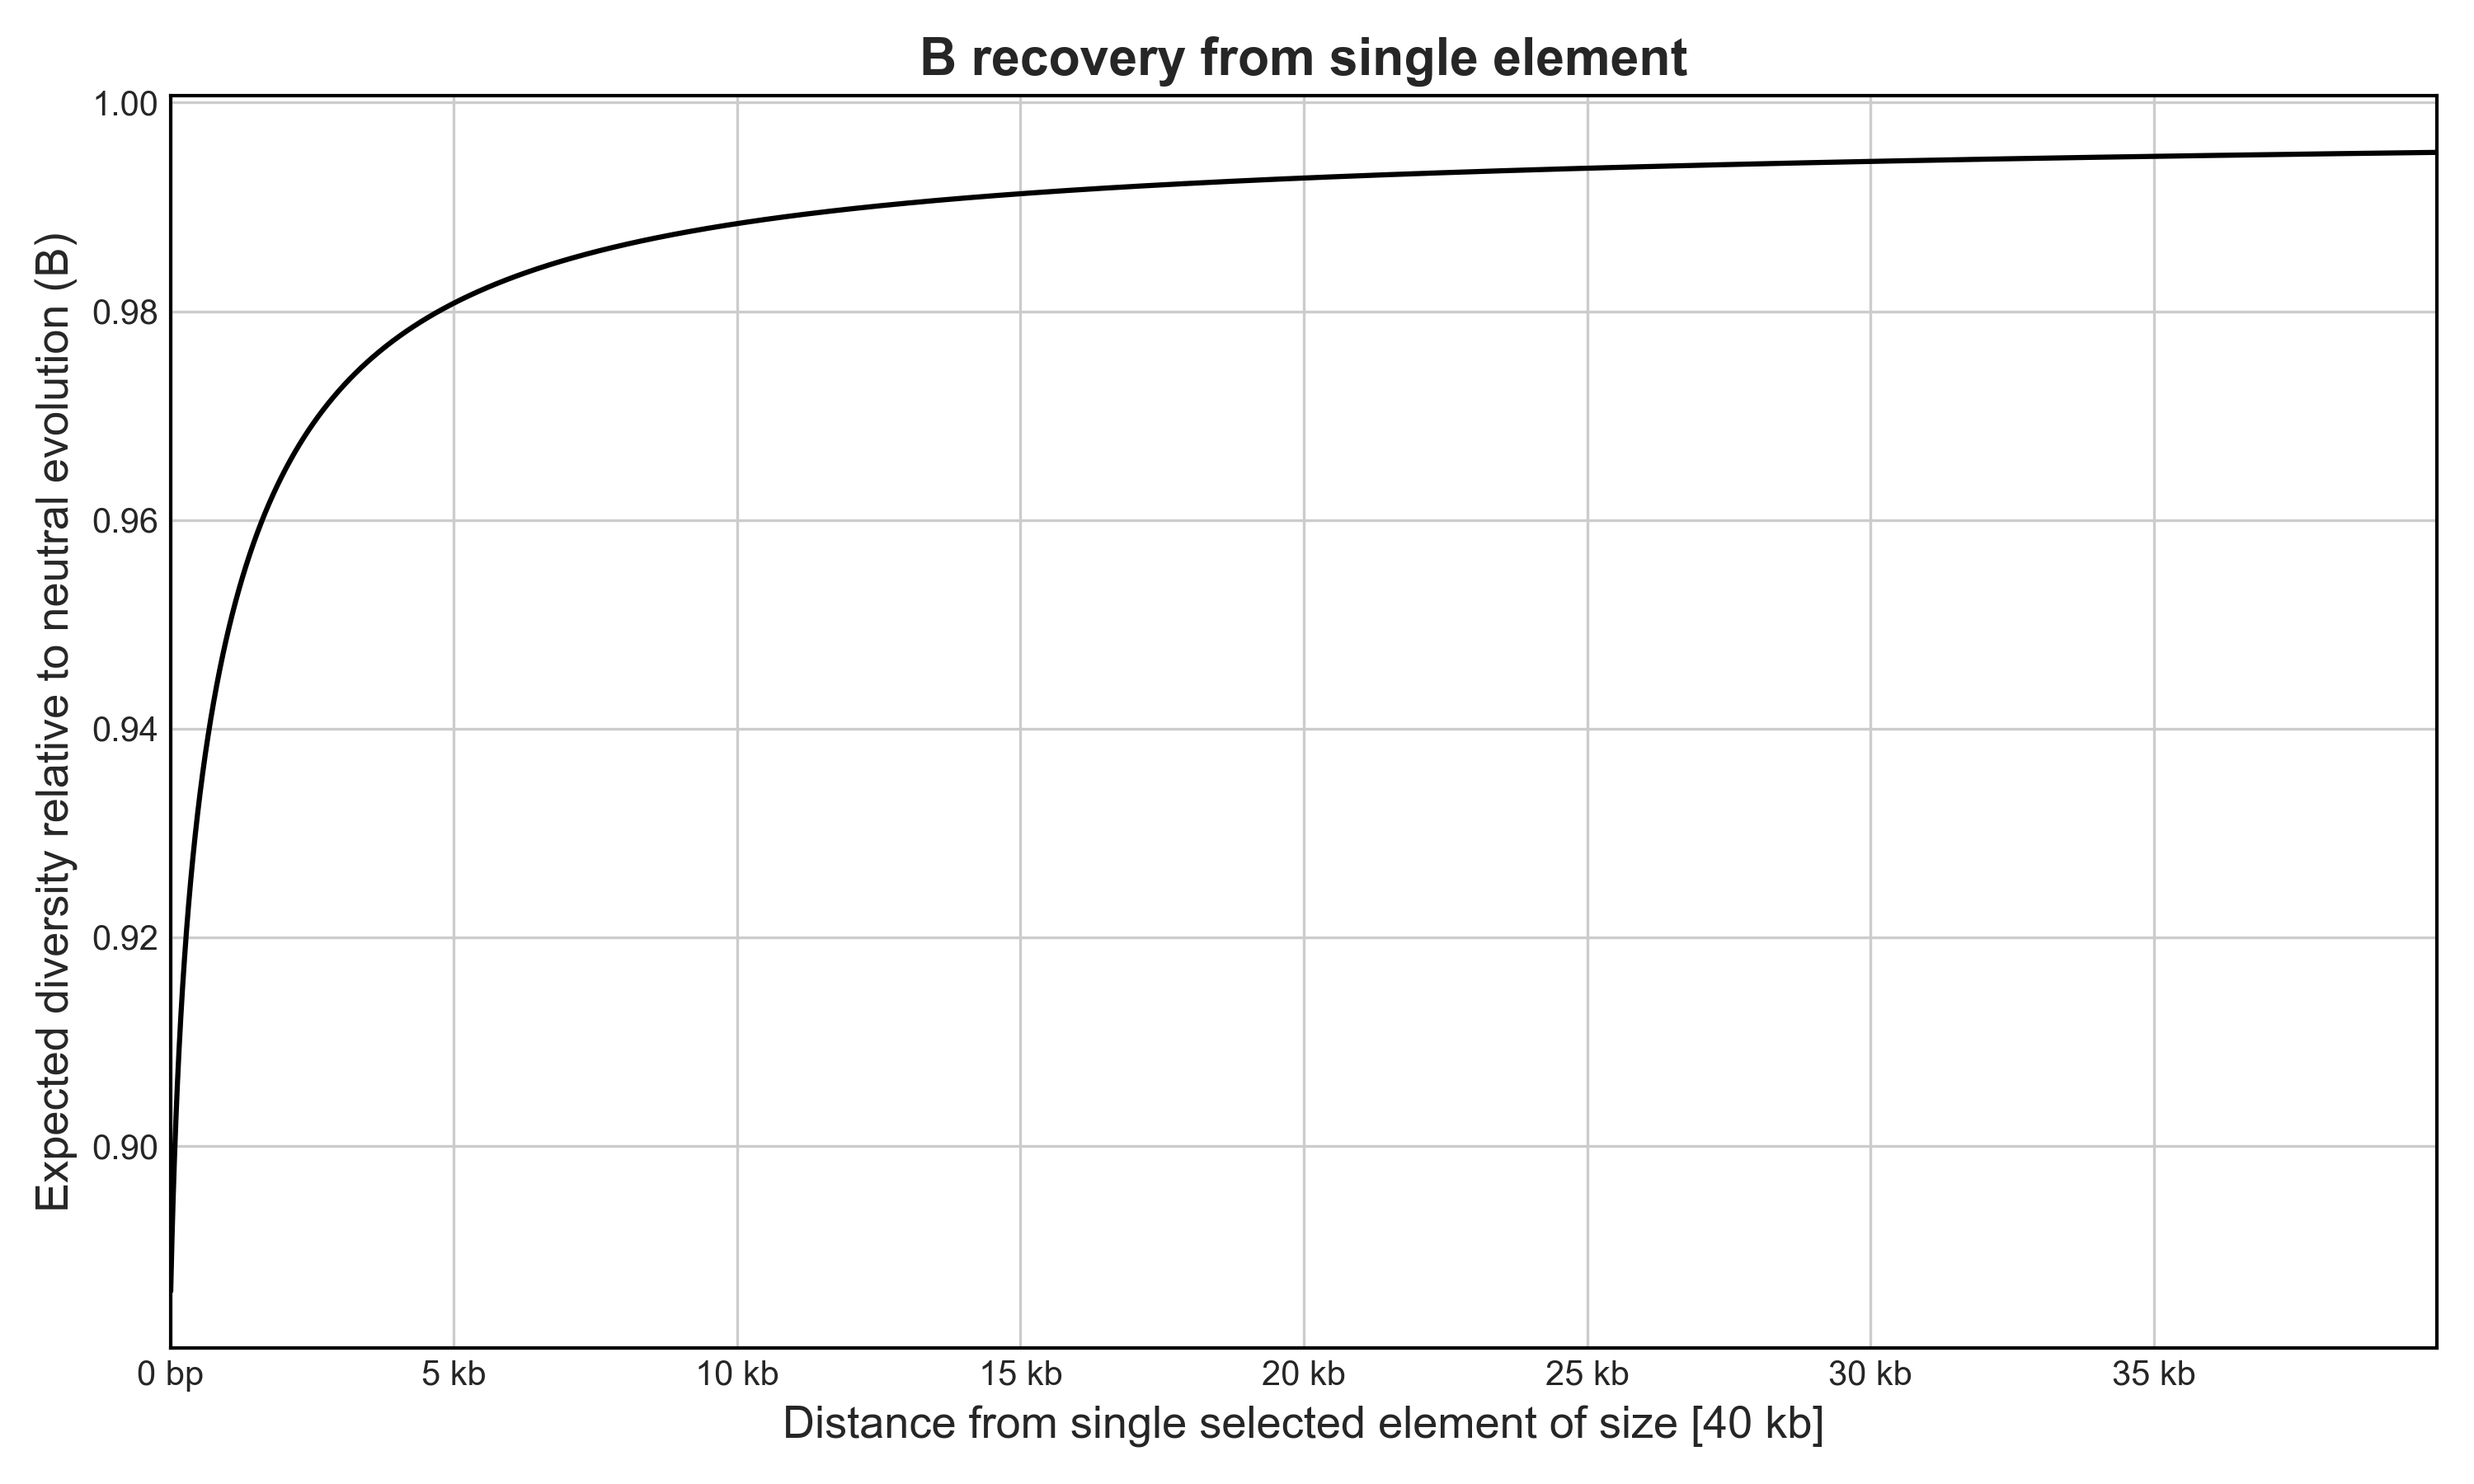
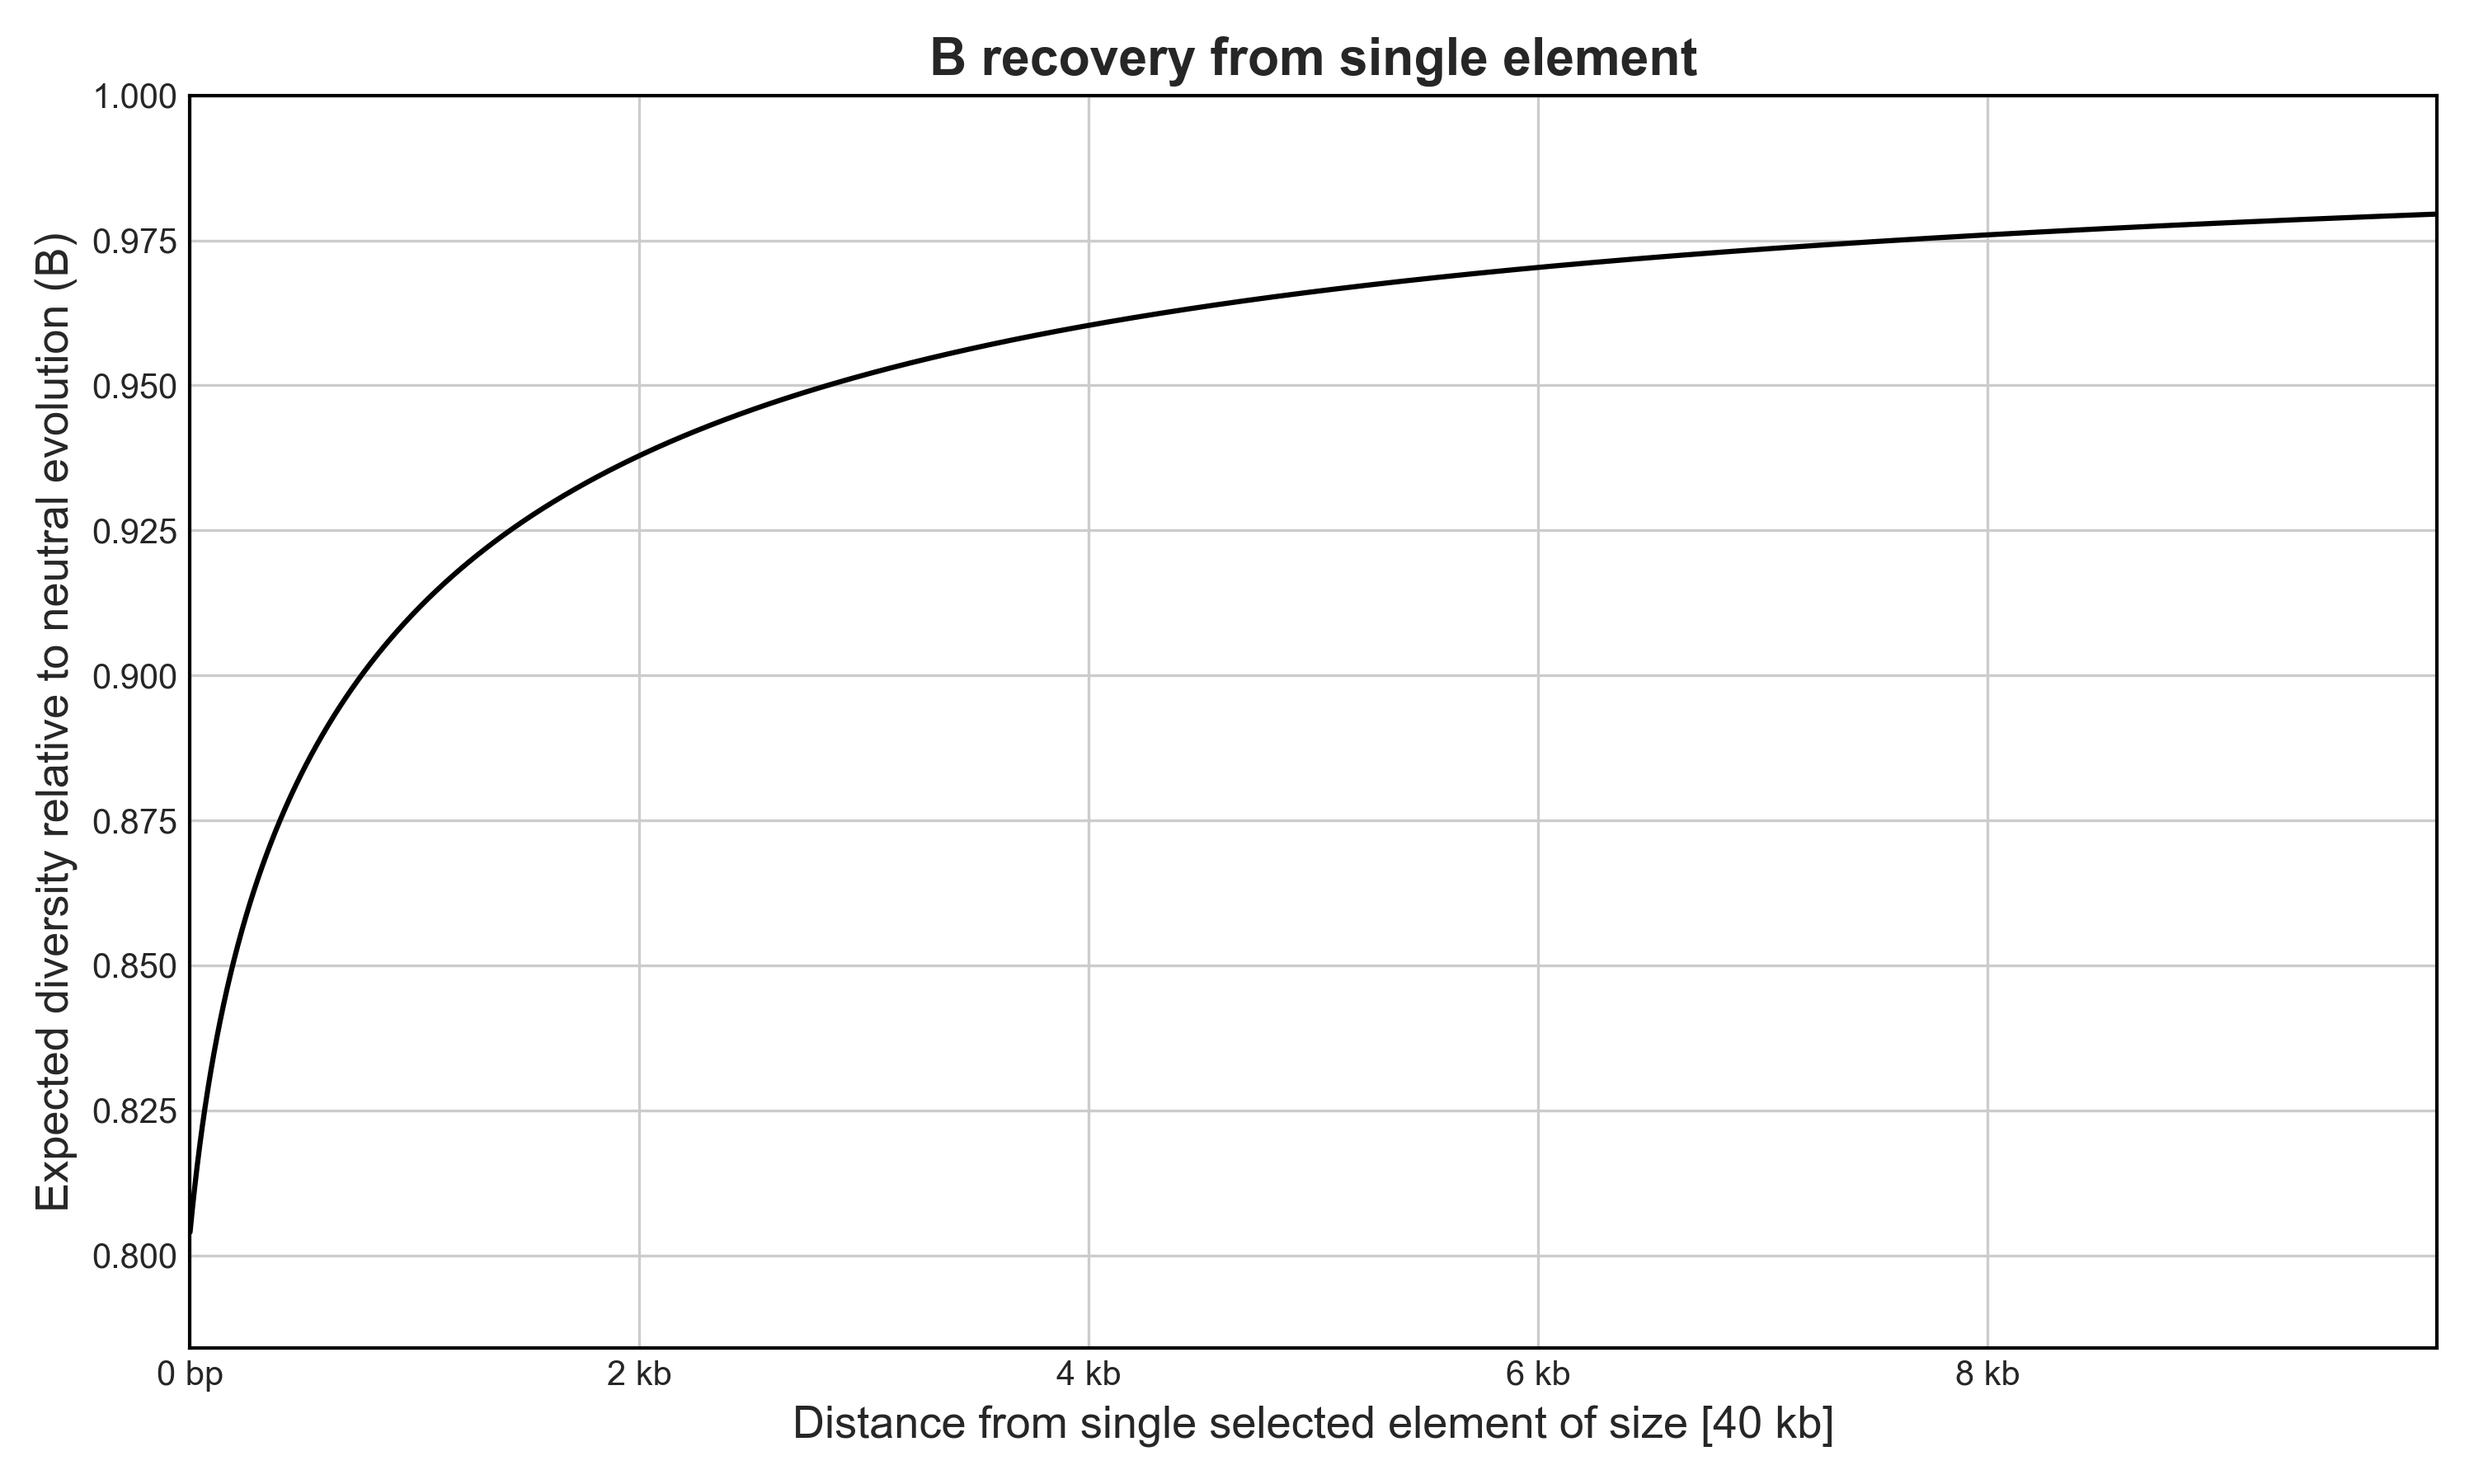
Add axes limits to plotBasic

diff --git a/constants.py b/constants.py
@@ -5,8 +5,8 @@ tract_len=440 #mean tract length of gene conversion in base pairs
 r = 1*1e-8*x #rate of recombination
 u = 3*1e-9*x #(*Mutation rate*)
 
-Nanc = 1e6/x
-Ncur = 1e6/x #(Current population size)
+Nanc = 1e6/x #(Ancestral population size)
+Ncur = 1e6/x/10 #(Current population size)
 gamma_cutoff = 5 #5.0
 h=0.5
 t0 = 0.0
@@ -21,4 +21,4 @@ f1 = 0.2 #(*Proportion of weakly deleterious mutations with 1 <= |2Nes| < 10 *) 
 f2 = 0.3 #(*Proportion of moderately deleterious mutations with 10 <= |2Nes| < 100 *) 0.0533 0.04
 f3 = 0.4 #(*Proportion of strongly deleterious mutations with |2Nes| >= 100 *) 0.2933 0.22
 
-time_of_change=1.0 #0.1/0.5/1(This is the time of change in 2Ncur  in the past generations.)
+time_of_change = 1 #0.1/0.5/1(This is the time of change in 2Ncur  in the past generations.)

diff --git a/helperScripts/plotBasic.py b/helperScripts/plotBasic.py
@@ -32,6 +32,7 @@ def plotBasic(b_values_input, caller, output_path, silent):
 
     ax.plot(x, y, color='black', lw=1.5)
     ax.set_xlim(x.min() - 1, x.max())
+    ax.set_ylim(y.min() - 0.02, 1)
 
     ax.set_ylabel('Expected diversity relative to neutral evolution (B)', fontsize=13)
     if caller == "genome":
